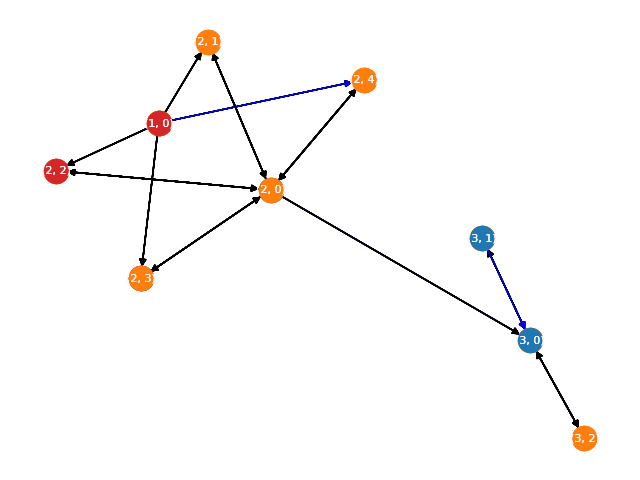
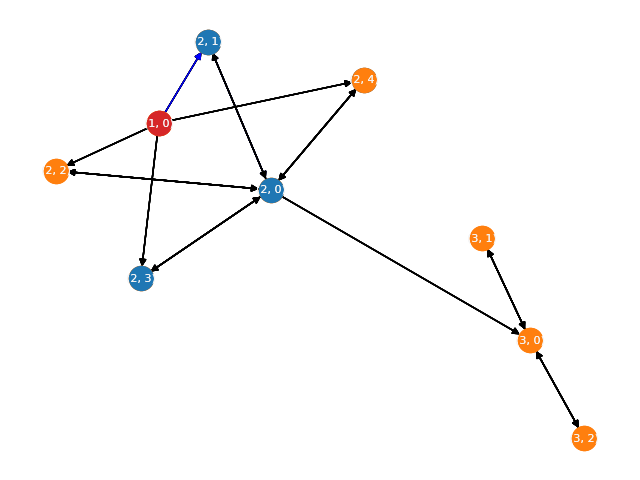
There are 2 working attack strategies.

diff --git a/project/attacker.py b/project/attacker.py
@@ -25,10 +25,11 @@ class Attacker:
         The won score by compromising the network for this attacker.
     """
 
-    def __init__(self, env, network, attacker_settings):
+    def __init__(self, env, network, attacker_settings, attacker_id):
         self.env = env
         self.network = network
         self.attacker_settings = attacker_settings
+        self.id = attacker_id
         self.strategy = ""
         self.actions = {}
         self.compromised_hosts = []
@@ -58,8 +59,6 @@ class Attacker:
                 yield self.env.process(self.advanced_persistant_threats())
 
 
-
-
     def load_actions(self):
         """
         Load the actions for this attacker based on given strategy.
@@ -81,23 +80,23 @@ class Attacker:
             self.actions["priv_esc"] = glob.atts_h
         if self.attacker_settings[8].get() == 1:
             self.actions["dos"] = act.DenialOfService("dos", 1, 20, 10) #Denialofservice with duration 10 and cost 20.
-        glob.logger.info(f"Attacker actions and strategy have been loaded for attacker at {self.env.now}.")
+        glob.logger.info(f"Attacker actions and strategy have been loaded for attacker {self.id} at {self.env.now}.")
 
     def random_strategy(self):
         # Check if host is already compromised.
         host = self.network.get_host(self.start)
-        if host.get_attacker_access_lvl() == glob.AccessLevel.ROOT:
+        if host.get_attacker_access_lvl() != glob.AccessLevel.NONE:
             # If so then scan for other hosts and to compromised nodes.
-            self.compromised_hosts.append(self.start)
             glob.logger.info(f"Start SubnetScan at {self.env.now}.")
             yield self.env.process(self.subnetscan())
 
-            # Check the edges for hardenning if none exploit etc...
+            # Choose a random target from seen hosts.
             self.target = random.choice(self.scanned_hosts).get_address()
             edge = self.network.get_edge((self.start, self.target))
-            # Check if there are new nodes else end attack.
+
+            # Check if there are new hosts else end attack.
             if edge == None:
-                self.start = random.choice(self.compromised_hosts)
+                self.start = random.choice(self.compromised_hosts)[0]
                 glob.logger.info(f"Looping back to host {self.start} at {self.env.now}.")
             else:
                 glob.logger.info(f"Start Exploit at {self.env.now}.")
@@ -105,30 +104,40 @@ class Attacker:
         else:
             # Else run a privilege escalation.
             glob.logger.info(f"Start PrivilegeEscalation at {self.env.now}.")
-            yield self.env.process(self.privilege_escalation())
+            yield self.env.process(self.privilege_escalation(host))
 
     def zero_day_exploit(self):
         """
         This is the zero-day exploit strategy where the focus is on using exploits to get deeper within the network.
         """
-        # Set start host.
+        # Make a temp host for the run.
         host = self.network.get_host(self.start)
-        # Scan for reachable hosts.
-        glob.logger.info(f"Start SubnetScan at {self.env.now}.")
-        yield self.env.process(self.subnetscan())
+        # If the host had more that 3 neighbors we think it is valuable so get score.
+        if len(self.network.get_all_edges_from(self.start)) > 3 and self.start != (1, 0):
+            # Run a privilege escalation.
+            glob.logger.info(f"Start PrivilegeEscalation at {self.env.now}.")
+            yield self.env.process(self.privilege_escalation(host))
 
-	    # From this host check for the edge with the lowest cost to exploit
-        possible_edges = self.network.get_all_edges_from(self.start)
-        for edge in possible_edges:
-            if edge.get_dest_addr() in self.compromised_hosts:
-                possible_edges.remove(edge)
+        if host.get_attacker_access_lvl() == glob.AccessLevel.NONE or self.start == (1,0):
+            # If so then scan for other hosts and to compromised nodes.
+            glob.logger.info(f"Start SubnetScan at {self.env.now}.")
+            yield self.env.process(self.subnetscan())
 
-        # If other targets are available and not in compromised nodes.
-        if len(possible_edges) > 0:
-            edge = possible_edges[0]
+            # Choose the best target from seen hosts.
+            self.target = self.get_best_target()
+            edge = self.network.get_edge((self.start, self.target))
 
-        glob.logger.info(f"Start Exploit at {self.env.now}.")
-        yield self.env.process(self.exploit(edge))
+            # Check if there are new hosts else end attack.
+            if edge == None:
+                self.start = random.choice(self.compromised_hosts)[0]
+                glob.logger.info(f"Looping back to host {self.start} at {self.env.now}.")
+            else:
+                glob.logger.info(f"Start Exploit at {self.env.now}.")
+                yield self.env.process(self.exploit(edge))
+        else:
+            # Else run a privilege escalation till you have the score.
+            glob.logger.info(f"Start PrivilegeEscalation at {self.env.now}.")
+            yield self.env.process(self.privilege_escalation(host))
 
 
     def advanced_persistant_threats(self):
@@ -181,17 +190,18 @@ class Attacker:
         """
         priv_esc = self.lowest_cost(host.possible_attacks())
         self.update_cost(priv_esc.get_cost())
+        yield self.env.timeout(priv_esc.get_duration())
 
         if priv_esc.get_name() in host.get_hardened():
             # Priv_esc has failed.
-            yield self.env.timeout(priv_esc.get_duration())
             glob.logger.info(f"Privilege escalation failed on host {host.get_address()} at {self.env.now}.")
             self.network.add_failed_att_hosts(host)
         else:
             # Priv_esc has succeeded.
-            yield self.env.timeout(priv_esc.get_duration())
             host.set_attacker_access_lvl(host.get_attacker_access_lvl() + 1)
+            self.add_compromised_host((host.get_address(), 1))
             if host.get_attacker_access_lvl() == glob.AccessLevel.ROOT:
+                self.add_compromised_host((host.get_address(), 2))
                 self.update_score(host.get_score())
             glob.logger.info(f"Privilege escalation succeeded on host {host.get_address()} at {self.env.now}.")
 
@@ -219,3 +229,28 @@ class Attacker:
                     best_exploit = exploit
 
         return best_exploit
+
+    def add_compromised_host(self, item):
+        """
+        Add a new compromised host to the list or update existing host with higher acces level.
+        """
+        for host in self.compromised_hosts:
+            if item[0] == host[0]:
+                if item[1] == host[1]:
+                    return
+                if item[1] > host[1]:
+                    host[1] = item[1]
+                    return
+
+        # This is if it is not in the list.
+        self.compromised_hosts.append(item)
+
+    def get_best_target(self):
+        """
+        This function should prioritise hosts from other subnets, if there is none, just take one.
+        """
+        for host in self.scanned_hosts:
+            if host.get_address()[0] != self.start[0]:
+                return host.get_address()
+
+        return self.scanned_hosts[0].get_address()

diff --git a/project/event_handler.py b/project/event_handler.py
@@ -7,8 +7,8 @@ import defender as defend
 
 
 def generate_attackers(env, N):
-    for attacker_settings in glob.attacker_list:
-        attacker  = att.Attacker(env, N, attacker_settings)
+    for id, attacker_settings in enumerate(glob.attacker_list):
+        attacker  = att.Attacker(env, N, attacker_settings, id)
         env.process(attacker.run())
 
 def generate_defender(env, N):
@@ -27,9 +27,7 @@ def start_simulation():
     Function which will start the simulation.
     """
 
-    """
-    Create network and attackers and defenders.
-    """
+    #Create network.
     N = nw.create_basic_network(5, 3)
     # nw.draw_network(N)
 
@@ -40,6 +38,8 @@ def start_simulation():
     """
     env = simpy.Environment()
 
+
+    # Create attackers and defenders.
     generate_attackers(env, N)
 
     generate_defender(env, N)
@@ -48,13 +48,5 @@ def start_simulation():
     env.run(until=glob.MAX_RUMTIME)
 
     glob.logger.info(f"Simulation ended at time: {env.now}")
-
-
-    """
-    Log all events which have happened in the simulation.
-    """
-    for handler in glob.logger.handlers:
-        handler.flush()
-
 
     nw.draw_network(N)

diff --git a/project/simulator.py b/project/simulator.py
@@ -1,4 +1,5 @@
 import globals as glob
+import os
 import customtkinter
 from PIL import Image
 from CTkMessagebox import CTkMessagebox
@@ -249,11 +250,12 @@ class App(customtkinter.CTk):
         """
         if self.check_edge_cases() == True:
             return
+
         start_simulation()
         # Update the log to the GUI.
         self.log.configure(state="normal")
-        self.log.delete("1.0", "1.end")
-        with open('log.txt') as f:
+        self.log.delete("0.0","end")
+        with open("log.txt") as f:
             log = f.read()
         self.log.insert("0.0", log)
         self.log.configure(state="disabled")
